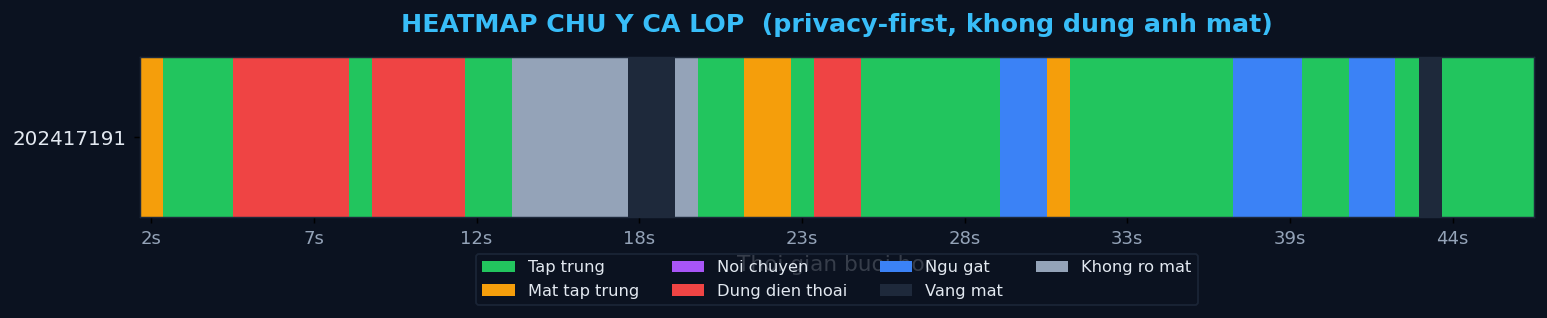
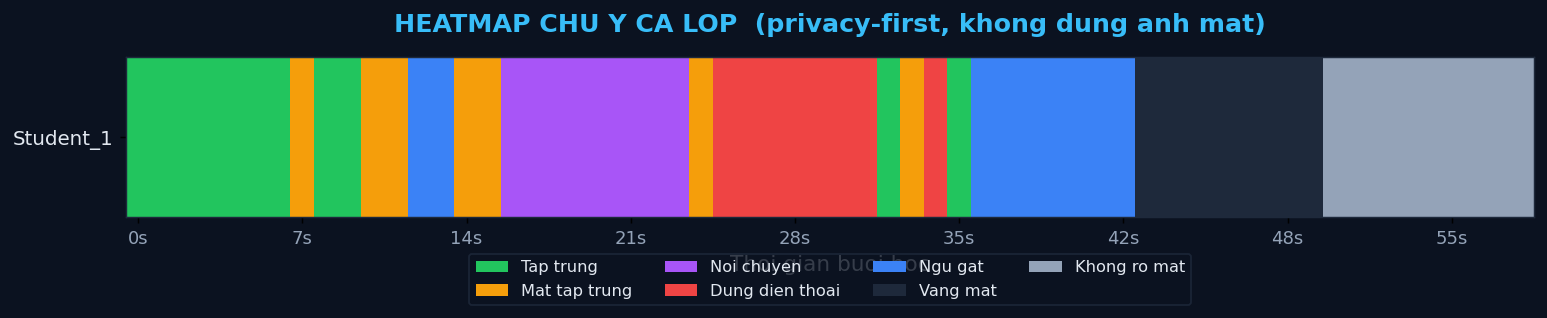
upload test videos and grade the accuracy rate

diff --git a/AI-PROJECT/analysis_statistics/session_report.html b/AI-PROJECT/analysis_statistics/session_report.html
@@ -104,11 +104,11 @@
 <div class="wrap">
   <span class="badge">&#128274; Privacy-First &middot; Khong luu anh khuon mat</span>
   <h1>Bao cao phien giam sat lop hoc</h1>
-  <p class="sub">Nguon du lieu: session_20260609_101159_details.csv &middot; Tao luc 09/06/2026 10:11</p>
+  <p class="sub">Nguon du lieu: WWYL3215_details.csv &middot; Tao luc 09/06/2026 16:22</p>
 
   <div class="meta">
     <div><b>1</b><span>Sinh vien duoc theo doi</span></div>
-    <div><b>46s</b><span>Thoi luong phan tich</span></div>
+    <div><b>58s</b><span>Thoi luong phan tich</span></div>
     <div><b>0</b><span>Anh khuon mat luu tru</span></div>
   </div>
 
@@ -116,7 +116,7 @@
     <h2>Heatmap chu y ca lop theo thoi gian</h2>
     <div class="legend"><span class="lg"><i style="background:#22c55e"></i>Tap trung</span><span class="lg"><i style="background:#f59e0b"></i>Mat tap trung</span><span class="lg"><i style="background:#a855f7"></i>Noi chuyen</span><span class="lg"><i style="background:#ef4444"></i>Dung dien thoai</span><span class="lg"><i style="background:#3b82f6"></i>Ngu gat</span><span class="lg"><i style="background:#1e293b"></i>Vang mat</span><span class="lg"><i style="background:#94a3b8"></i>Khong ro mat</span></div>
     <div class="hm">
-      <div class="hm-row"><div class="hm-label">[phone redacted]<span class="hm-score">3</span></div><div class="hm-track"><div class="cell" style="background:#f59e0b" title="[phone redacted] | 1.8s | Mat tap trung"></div><div class="cell" style="background:#22c55e" title="[phone redacted] | 2.5s | Tap trung"></div><div class="cell" style="background:#22c55e" title="[phone redacted] | 3.3s | Tap trung"></div><div class="cell" style="background:#22c55e" title="[phone redacted] | 4.1s | Tap trung"></div><div class="cell" style="background:#ef4444" title="[phone redacted] | 4.8s | Dung dien thoai"></div><div class="cell" style="background:#ef4444" title="[phone redacted] | 5.6s | Dung dien thoai"></div><div class="cell" style="background:#ef4444" title="[phone redacted] | 6.3s | Dung dien thoai"></div><div class="cell" style="background:#ef4444" title="[phone redacted] | 7.1s | Dung dien thoai"></div><div class="cell" style="background:#ef4444" title="[phone redacted] | 7.8s | Dung dien thoai"></div><div class="cell" style="background:#22c55e" title="[phone redacted] | 8.6s | Tap trung"></div><div class="cell" style="background:#ef4444" title="[phone redacted] | 9.3s | Dung dien thoai"></div><div class="cell" style="background:#ef4444" title="[phone redacted] | 10.1s | Dung dien thoai"></div><div class="cell" style="background:#ef4444" title="[phone redacted] | 10.8s | Dung dien thoai"></div><div class="cell" style="background:#ef4444" title="[phone redacted] | 11.6s | Dung dien thoai"></div><div class="cell" style="background:#22c55e" title="[phone redacted] | 12.3s | Tap trung"></div><div class="cell" style="background:#22c55e" title="[phone redacted] | 13.1s | Tap trung"></div><div class="cell" style="background:#94a3b8" title="[phone redacted] | 13.8s | Khong ro mat"></div><div class="cell" style="background:#94a3b8" title="[phone redacted] | 14.6s | Khong ro mat"></div><div class="cell" style="background:#94a3b8" title="[phone redacted] | 15.3s | Khong ro mat"></div><div class="cell" style="background:#94a3b8" title="[phone redacted] | 16.1s | Khong ro mat"></div><div class="cell" style="background:#94a3b8" title="[phone redacted] | 16.8s | Khong ro mat"></div><div class="cell" style="background:#1e293b" title="[phone redacted] | 17.6s | Vang mat"></div><div class="cell" style="background:#1e293b" title="[phone redacted] | 18.3s | Vang mat"></div><div class="cell" style="background:#94a3b8" title="[phone redacted] | 19.1s | Khong ro mat"></div><div class="cell" style="background:#22c55e" title="[phone redacted] | 19.8s | Tap trung"></div><div class="cell" style="background:#22c55e" title="[phone redacted] | 20.6s | Tap trung"></div><div class="cell" style="background:#f59e0b" title="[phone redacted] | 21.3s | Mat tap trung"></div><div class="cell" style="background:#f59e0b" title="[phone redacted] | 22.1s | Mat tap trung"></div><div class="cell" style="background:#22c55e" title="[phone redacted] | 22.8s | Tap trung"></div><div class="cell" style="background:#ef4444" title="[phone redacted] | 23.6s | Dung dien thoai"></div><div class="cell" style="background:#ef4444" title="[phone redacted] | 24.4s | Dung dien thoai"></div><div class="cell" style="background:#22c55e" title="[phone redacted] | 25.1s | Tap trung"></div><div class="cell" style="background:#22c55e" title="[phone redacted] | 25.9s | Tap trung"></div><div class="cell" style="background:#22c55e" title="[phone redacted] | 26.6s | Tap trung"></div><div class="cell" style="background:#22c55e" title="[phone redacted] | 27.4s | Tap trung"></div><div class="cell" style="background:#22c55e" title="[phone redacted] | 28.1s | Tap trung"></div><div class="cell" style="background:#22c55e" title="[phone redacted] | 28.9s | Tap trung"></div><div class="cell" style="background:#3b82f6" title="[phone redacted] | 29.6s | Ngu gat"></div><div class="cell" style="background:#3b82f6" title="[phone redacted] | 30.4s | Ngu gat"></div><div class="cell" style="background:#f59e0b" title="[phone redacted] | 31.1s | Mat tap trung"></div><div class="cell" style="background:#22c55e" title="[phone redacted] | 31.9s | Tap trung"></div><div class="cell" style="background:#22c55e" title="[phone redacted] | 32.6s | Tap trung"></div><div class="cell" style="background:#22c55e" title="[phone redacted] | 33.4s | Tap trung"></div><div class="cell" style="background:#22c55e" title="[phone redacted] | 34.1s | Tap trung"></div><div class="cell" style="background:#22c55e" title="[phone redacted] | 34.9s | Tap trung"></div><div class="cell" style="background:#22c55e" title="[phone redacted] | 35.6s | Tap trung"></div><div class="cell" style="background:#22c55e" title="[phone redacted] | 36.4s | Tap trung"></div><div class="cell" style="background:#3b82f6" title="[phone redacted] | 37.1s | Ngu gat"></div><div class="cell" style="background:#3b82f6" title="[phone redacted] | 37.9s | Ngu gat"></div><div class="cell" style="background:#3b82f6" title="[phone redacted] | 38.6s | Ngu gat"></div><div class="cell" style="background:#22c55e" title="[phone redacted] | 39.4s | Tap trung"></div><div class="cell" style="background:#22c55e" title="[phone redacted] | 40.1s | Tap trung"></div><div class="cell" style="background:#3b82f6" title="[phone redacted] | 40.9s | Ngu gat"></div><div class="cell" style="background:#3b82f6" title="[phone redacted] | 41.6s | Ngu gat"></div><div class="cell" style="background:#22c55e" title="[phone redacted] | 42.4s | Tap trung"></div><div class="cell" style="background:#1e293b" title="[phone redacted] | 43.1s | Vang mat"></div><div class="cell" style="background:#22c55e" title="[phone redacted] | 43.9s | Tap trung"></div><div class="cell" style="background:#22c55e" title="[phone redacted] | 44.6s | Tap trung"></div><div class="cell" style="background:#22c55e" title="[phone redacted] | 45.4s | Tap trung"></div><div class="cell" style="background:#22c55e" title="[phone redacted] | 46.2s | Tap trung"></div></div></div>
+      <div class="hm-row"><div class="hm-label">Student_1<span class="hm-score">0</span></div><div class="hm-track"><div class="cell" style="background:#22c55e" title="Student_1 | 0.5s | Tap trung"></div><div class="cell" style="background:#22c55e" title="Student_1 | 1.5s | Tap trung"></div><div class="cell" style="background:#22c55e" title="Student_1 | 2.4s | Tap trung"></div><div class="cell" style="background:#22c55e" title="Student_1 | 3.4s | Tap trung"></div><div class="cell" style="background:#22c55e" title="Student_1 | 4.4s | Tap trung"></div><div class="cell" style="background:#22c55e" title="Student_1 | 5.4s | Tap trung"></div><div class="cell" style="background:#22c55e" title="Student_1 | 6.4s | Tap trung"></div><div class="cell" style="background:#f59e0b" title="Student_1 | 7.3s | Mat tap trung"></div><div class="cell" style="background:#22c55e" title="Student_1 | 8.3s | Tap trung"></div><div class="cell" style="background:#22c55e" title="Student_1 | 9.3s | Tap trung"></div><div class="cell" style="background:#f59e0b" title="Student_1 | 10.3s | Mat tap trung"></div><div class="cell" style="background:#f59e0b" title="Student_1 | 11.3s | Mat tap trung"></div><div class="cell" style="background:#3b82f6" title="Student_1 | 12.2s | Ngu gat"></div><div class="cell" style="background:#3b82f6" title="Student_1 | 13.2s | Ngu gat"></div><div class="cell" style="background:#f59e0b" title="Student_1 | 14.2s | Mat tap trung"></div><div class="cell" style="background:#f59e0b" title="Student_1 | 15.2s | Mat tap trung"></div><div class="cell" style="background:#a855f7" title="Student_1 | 16.2s | Noi chuyen"></div><div class="cell" style="background:#a855f7" title="Student_1 | 17.1s | Noi chuyen"></div><div class="cell" style="background:#a855f7" title="Student_1 | 18.1s | Noi chuyen"></div><div class="cell" style="background:#a855f7" title="Student_1 | 19.1s | Noi chuyen"></div><div class="cell" style="background:#a855f7" title="Student_1 | 20.1s | Noi chuyen"></div><div class="cell" style="background:#a855f7" title="Student_1 | 21.1s | Noi chuyen"></div><div class="cell" style="background:#a855f7" title="Student_1 | 22.0s | Noi chuyen"></div><div class="cell" style="background:#a855f7" title="Student_1 | 23.0s | Noi chuyen"></div><div class="cell" style="background:#f59e0b" title="Student_1 | 24.0s | Mat tap trung"></div><div class="cell" style="background:#ef4444" title="Student_1 | 25.0s | Dung dien thoai"></div><div class="cell" style="background:#ef4444" title="Student_1 | 25.9s | Dung dien thoai"></div><div class="cell" style="background:#ef4444" title="Student_1 | 26.9s | Dung dien thoai"></div><div class="cell" style="background:#ef4444" title="Student_1 | 27.9s | Dung dien thoai"></div><div class="cell" style="background:#ef4444" title="Student_1 | 28.9s | Dung dien thoai"></div><div class="cell" style="background:#ef4444" title="Student_1 | 29.9s | Dung dien thoai"></div><div class="cell" style="background:#ef4444" title="Student_1 | 30.8s | Dung dien thoai"></div><div class="cell" style="background:#22c55e" title="Student_1 | 31.8s | Tap trung"></div><div class="cell" style="background:#f59e0b" title="Student_1 | 32.8s | Mat tap trung"></div><div class="cell" style="background:#ef4444" title="Student_1 | 33.8s | Dung dien thoai"></div><div class="cell" style="background:#22c55e" title="Student_1 | 34.8s | Tap trung"></div><div class="cell" style="background:#3b82f6" title="Student_1 | 35.7s | Ngu gat"></div><div class="cell" style="background:#3b82f6" title="Student_1 | 36.7s | Ngu gat"></div><div class="cell" style="background:#3b82f6" title="Student_1 | 37.7s | Ngu gat"></div><div class="cell" style="background:#3b82f6" title="Student_1 | 38.7s | Ngu gat"></div><div class="cell" style="background:#3b82f6" title="Student_1 | 39.7s | Ngu gat"></div><div class="cell" style="background:#3b82f6" title="Student_1 | 40.6s | Ngu gat"></div><div class="cell" style="background:#3b82f6" title="Student_1 | 41.6s | Ngu gat"></div><div class="cell" style="background:#1e293b" title="Student_1 | 42.6s | Vang mat"></div><div class="cell" style="background:#1e293b" title="Student_1 | 43.6s | Vang mat"></div><div class="cell" style="background:#1e293b" title="Student_1 | 44.6s | Vang mat"></div><div class="cell" style="background:#1e293b" title="Student_1 | 45.5s | Vang mat"></div><div class="cell" style="background:#1e293b" title="Student_1 | 46.5s | Vang mat"></div><div class="cell" style="background:#1e293b" title="Student_1 | 47.5s | Vang mat"></div><div class="cell" style="background:#1e293b" title="Student_1 | 48.5s | Vang mat"></div><div class="cell" style="background:#1e293b" title="Student_1 | 49.4s | Vang mat"></div><div class="cell" style="background:#94a3b8" title="Student_1 | 50.4s | Khong ro mat"></div><div class="cell" style="background:#94a3b8" title="Student_1 | 51.4s | Khong ro mat"></div><div class="cell" style="background:#94a3b8" title="Student_1 | 52.4s | Khong ro mat"></div><div class="cell" style="background:#94a3b8" title="Student_1 | 53.4s | Khong ro mat"></div><div class="cell" style="background:#94a3b8" title="Student_1 | 54.3s | Khong ro mat"></div><div class="cell" style="background:#94a3b8" title="Student_1 | 55.3s | Khong ro mat"></div><div class="cell" style="background:#94a3b8" title="Student_1 | 56.3s | Khong ro mat"></div><div class="cell" style="background:#94a3b8" title="Student_1 | 57.3s | Khong ro mat"></div><div class="cell" style="background:#94a3b8" title="Student_1 | 58.3s | Khong ro mat"></div></div></div>
     </div>
     <div class="png-wrap"><img src="class_attention_heatmap.png" alt="Heatmap chu y ca lop"></div>
   </section>
@@ -127,17 +127,17 @@
       
               <div class="timeline-card">
                 <div class="timeline-head">
-                  <strong>202417191</strong>
-                  <span>3/100</span>
+                  <strong>Student_1</strong>
+                  <span>0/100</span>
                 </div>
-                <svg viewBox="0 0 620 118" role="img" aria-label="Attention timeline 202417191">
+                <svg viewBox="0 0 620 118" role="img" aria-label="Attention timeline Student_1">
                   <line x1="34" y1="12" x2="34" y2="94" class="axis"/>
                   <line x1="34" y1="94" x2="608" y2="94" class="axis"/>
                   <line x1="34" y1="44.800000000000004" x2="608" y2="44.800000000000004" class="guide"/>
                   <line x1="34" y1="61.199999999999996" x2="608" y2="61.199999999999996" class="guide"/>
                   <text x="4" y="16" class="svg-label">100</text>
                   <text x="9" y="98" class="svg-label">0</text>
-                  <polyline points="34.0,16.0 43.7,18.4 53.5,18.2 63.2,17.6 72.9,17.4 82.6,19.3 92.4,21.8 102.1,24.2 111.8,26.7 121.6,27.5 131.3,28.5 141.0,30.8 150.7,33.3 160.5,35.8 170.2,37.6 179.9,37.3 189.7,38.1 199.4,41.4 209.1,45.1 218.8,48.8 228.6,52.5 238.3,56.2 248.0,59.9 257.8,63.5 267.5,66.7 277.2,67.2 286.9,67.6 296.7,68.6 306.4,68.7 316.1,70.0 325.9,72.4 335.6,73.4 345.3,72.9 355.1,72.3 364.8,72.1 374.5,71.7 384.2,71.3 394.0,72.6 403.7,75.6 413.4,78.6 423.2,79.9 432.9,79.6 442.6,78.9 452.3,78.3 462.1,77.7 471.8,77.1 481.5,76.5 491.3,77.3 501.0,80.1 510.7,83.0 520.4,84.6 530.2,84.5 539.9,84.4 549.6,86.8 559.4,89.1 569.1,91.4 578.8,93.6 588.5,93.4 598.3,92.7 608.0,92.1" class="score-line"/>
+                  <polyline points="34.0,12.0 43.7,12.0 53.5,12.0 63.2,12.0 72.9,12.0 82.6,12.0 92.4,12.0 102.1,12.3 111.8,13.1 121.6,13.2 131.3,13.8 141.0,15.3 150.7,17.9 160.5,21.8 170.2,25.1 179.9,26.5 189.7,28.4 199.4,30.9 209.1,33.3 218.8,35.9 228.6,38.5 238.3,41.0 248.0,43.5 257.8,45.8 267.5,47.7 277.2,50.4 286.9,53.6 296.7,56.7 306.4,59.9 316.1,63.1 325.9,66.1 335.6,69.4 345.3,71.7 355.1,71.8 364.8,73.7 374.5,75.8 384.2,77.3 394.0,81.2 403.7,85.2 413.4,89.1 423.2,92.9 432.9,94.0 442.6,94.0 452.3,94.0 462.1,94.0 471.8,94.0 481.5,94.0 491.3,94.0 501.0,94.0 510.7,94.0 520.4,94.0 530.2,94.0 539.9,94.0 549.6,94.0 559.4,94.0 569.1,94.0 578.8,94.0 588.5,94.0 598.3,94.0 608.0,94.0" class="score-line"/>
                 </svg>
               </div>
     </div>
@@ -149,25 +149,25 @@
       
         <div class="card">
           <div class="card-head">
-            <div class="ring" style="--c:#ef4444;--p:3">
-              <span>3</span>
+            <div class="ring" style="--c:#ef4444;--p:0">
+              <span>0</span>
             </div>
             <div>
-              <h3>202417191</h3>
-              <p>45.1s &middot; chu y TB 41
-                 &middot; tap trung 45%</p>
+              <h3>Student_1</h3>
+              <p>58.8s &middot; chu y TB 43
+                 &middot; tap trung 18%</p>
             </div>
           </div>
-          <div class="bars"><div class="bar"><span>Tap trung</span><div class="bar-track"><div class="bar-fill" style="width:45%;background:#22c55e"></div></div><b>45%</b></div><div class="bar"><span>Dung dien thoai</span><div class="bar-track"><div class="bar-fill" style="width:18%;background:#ef4444"></div></div><b>18%</b></div><div class="bar"><span>Khong ro mat</span><div class="bar-track"><div class="bar-fill" style="width:13%;background:#94a3b8"></div></div><b>13%</b></div><div class="bar"><span>Ngu gat</span><div class="bar-track"><div class="bar-fill" style="width:12%;background:#3b82f6"></div></div><b>12%</b></div><div class="bar"><span>Mat tap trung</span><div class="bar-track"><div class="bar-fill" style="width:8%;background:#f59e0b"></div></div><b>8%</b></div><div class="bar"><span>Vang mat</span><div class="bar-track"><div class="bar-fill" style="width:4%;background:#1e293b"></div></div><b>4%</b></div></div>
+          <div class="bars"><div class="bar"><span>Tap trung</span><div class="bar-track"><div class="bar-fill" style="width:18%;background:#22c55e"></div></div><b>18%</b></div><div class="bar"><span>Khong ro mat</span><div class="bar-track"><div class="bar-fill" style="width:16%;background:#94a3b8"></div></div><b>16%</b></div><div class="bar"><span>Ngu gat</span><div class="bar-track"><div class="bar-fill" style="width:14%;background:#3b82f6"></div></div><b>14%</b></div><div class="bar"><span>Dung dien thoai</span><div class="bar-track"><div class="bar-fill" style="width:14%;background:#ef4444"></div></div><b>14%</b></div><div class="bar"><span>Vang mat</span><div class="bar-track"><div class="bar-fill" style="width:13%;background:#1e293b"></div></div><b>13%</b></div><div class="bar"><span>Mat tap trung</span><div class="bar-track"><div class="bar-fill" style="width:12%;background:#f59e0b"></div></div><b>12%</b></div><div class="bar"><span>Noi chuyen</span><div class="bar-track"><div class="bar-fill" style="width:12%;background:#a855f7"></div></div><b>12%</b></div></div>
           
           <div class="impact">
             <div class="impact-title">
               <span>Dong gop diem</span>
-              <strong class="neg">-91.9</strong>
+              <strong class="neg">-204.3</strong>
             </div>
-            <div class="impact-row"><span>Tap trung</span><b>20.4s</b><b>+1.0/s</b><strong class="pos">+20.4</strong></div><div class="impact-row"><span>Mat tap trung</span><b>3.6s</b><b>-2.0/s</b><strong class="neg">-7.2</strong></div><div class="impact-row"><span>Dung dien thoai</span><b>8.3s</b><b>-4.0/s</b><strong class="neg">-33.3</strong></div><div class="impact-row"><span>Ngu gat</span><b>5.2s</b><b>-5.0/s</b><strong class="neg">-26.2</strong></div><div class="impact-row"><span>Vang mat</span><b>1.9s</b><b>-6.0/s</b><strong class="neg">-11.3</strong></div><div class="impact-row"><span>Khong ro mat</span><b>5.7s</b><b>-6.0/s</b><strong class="neg">-34.3</strong></div>
+            <div class="impact-row"><span>Tap trung</span><b>10.4s</b><b>+1.0/s</b><strong class="pos">+10.4</strong></div><div class="impact-row"><span>Mat tap trung</span><b>7.2s</b><b>-2.0/s</b><strong class="neg">-14.4</strong></div><div class="impact-row"><span>Noi chuyen</span><b>7.2s</b><b>-3.0/s</b><strong class="neg">-21.6</strong></div><div class="impact-row"><span>Dung dien thoai</span><b>8.3s</b><b>-4.0/s</b><strong class="neg">-33.3</strong></div><div class="impact-row"><span>Ngu gat</span><b>8.4s</b><b>-5.0/s</b><strong class="neg">-41.9</strong></div><div class="impact-row"><span>Vang mat</span><b>7.8s</b><b>-6.0/s</b><strong class="neg">-46.7</strong></div><div class="impact-row"><span>Khong ro mat</span><b>9.5s</b><b>-6.0/s</b><strong class="neg">-56.8</strong></div>
           </div>
-          <div class="flags"><span class="flag">Frequent Distraction</span><span class="flag">Frequent Distraction; Rapid Attention Drop</span><span class="flag">Rapid Attention Drop</span></div><div class="flags"><span class="flag phone">Phat hien dien thoai</span></div>
+          <div class="flags"><span class="flag">Frequent Distraction</span><span class="flag">Frequent Distraction; Progressive Drowsiness</span><span class="flag">Frequent Distraction; Progressive Drowsiness; Rapid Attention Drop</span><span class="flag">Frequent Distraction; Rapid Attention Drop</span></div><div class="flags"><span class="flag phone">Phat hien dien thoai</span></div>
         </div>
     </div>
   </section>

diff --git a/AI-PROJECT/make_label_template.py b/AI-PROJECT/make_label_template.py
@@ -1,0 +1,105 @@
+"""make_label_template.py — Generate a ground-truth label template from a *_details.csv.
+
+Usage:
+    python make_label_template.py <details.csv> [--step 1.0]
+
+Output:
+    <video>_labels.csv  (same directory as the details file)
+
+The generated CSV has one row per N-second interval (default 1 second) for
+each student detected in the details file.  The ``true_state`` column is
+left blank for you to fill in manually.
+
+Example output:
+    student,start,end,true_state
+    Student_1,0,1,
+    Student_1,1,2,
+    ...
+
+Labelling advice
+----------------
+- Use 1-second intervals (the default) — no need for finer granularity.
+  The evaluator skips frames near state-transition boundaries automatically
+  (default margin: ±1.5 s), so coarse 1-second annotations already yield
+  clean precision/recall numbers.
+
+- Valid states: OK, DISTRACTED, TALKING, SLEEPING, ABSENT, PHONE_USAGE, BODY_ONLY
+
+- At transition points, round to the nearest second — the boundary margin
+  will handle the uncertainty on both sides.
+
+- Leave rows blank (empty true_state) to exclude them from evaluation entirely.
+  Use this for ambiguous moments you cannot confidently label.
+"""
+
+import argparse
+import csv
+import sys
+from pathlib import Path
+
+
+VALID_STATES = {"OK", "DISTRACTED", "TALKING", "SLEEPING",
+                "ABSENT", "PHONE_USAGE", "BODY_ONLY"}
+
+
+def make_template(details_csv, step=1.0):
+    details_csv = Path(details_csv)
+    if not details_csv.exists():
+        print(f"[ERROR] File not found: {details_csv}")
+        sys.exit(1)
+
+    # Collect students and their timestamp range
+    students = {}   # name -> (t_min, t_max)
+    with open(details_csv, newline="", encoding="utf-8") as f:
+        for row in csv.DictReader(f):
+            name = row.get("student", "?").strip()
+            t = float(row.get("timestamp", 0) or 0)
+            if name not in students:
+                students[name] = [t, t]
+            else:
+                students[name][0] = min(students[name][0], t)
+                students[name][1] = max(students[name][1], t)
+
+    if not students:
+        print("[ERROR] No student data found in details CSV.")
+        sys.exit(1)
+
+    # Build rows
+    rows = []
+    for name in sorted(students):
+        t_min, t_max = students[name]
+        t = t_min
+        while t < t_max:
+            start = round(t, 3)
+            end   = round(min(t + step, t_max), 3)
+            rows.append({"student": name, "start": start, "end": end, "true_state": ""})
+            t += step
+
+    # Write output
+    stem = details_csv.stem
+    if stem.endswith("_details"):
+        stem = stem[: -len("_details")]
+    out_path = details_csv.parent / f"{stem}_labels.csv"
+
+    with open(out_path, "w", newline="", encoding="utf-8") as f:
+        writer = csv.DictWriter(f, fieldnames=["student", "start", "end", "true_state"])
+        writer.writeheader()
+        writer.writerows(rows)
+
+    print(f"[OK] Template written: {out_path}")
+    print(f"     {len(rows)} rows across {len(students)} student(s).")
+    print(f"     Fill in the 'true_state' column, then run the evaluator:")
+    print(f"     python -m src.analytics.evaluate --mode segment \\")
+    print(f"       --labels {out_path} \\")
+    print(f"       --details {details_csv} \\")
+    print(f"       --margin 1.5")
+    return out_path
+
+
+if __name__ == "__main__":
+    ap = argparse.ArgumentParser(description="Generate ground-truth label template")
+    ap.add_argument("details", help="Path to *_details.csv")
+    ap.add_argument("--step", type=float, default=1.0,
+                    help="Interval size in seconds (default: 1.0)")
+    args = ap.parse_args()
+    make_template(args.details, step=args.step)